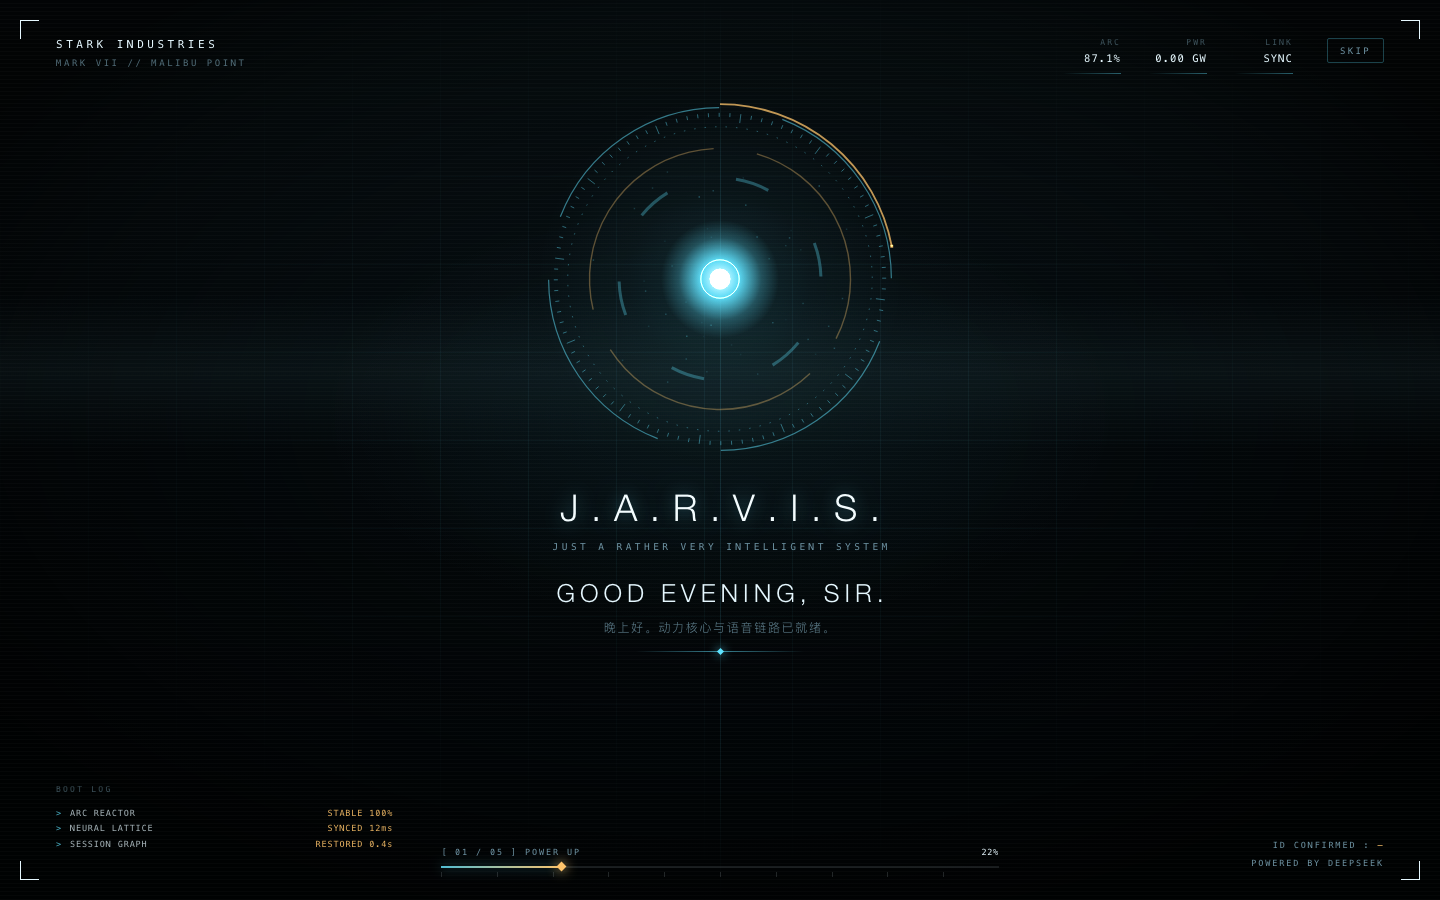
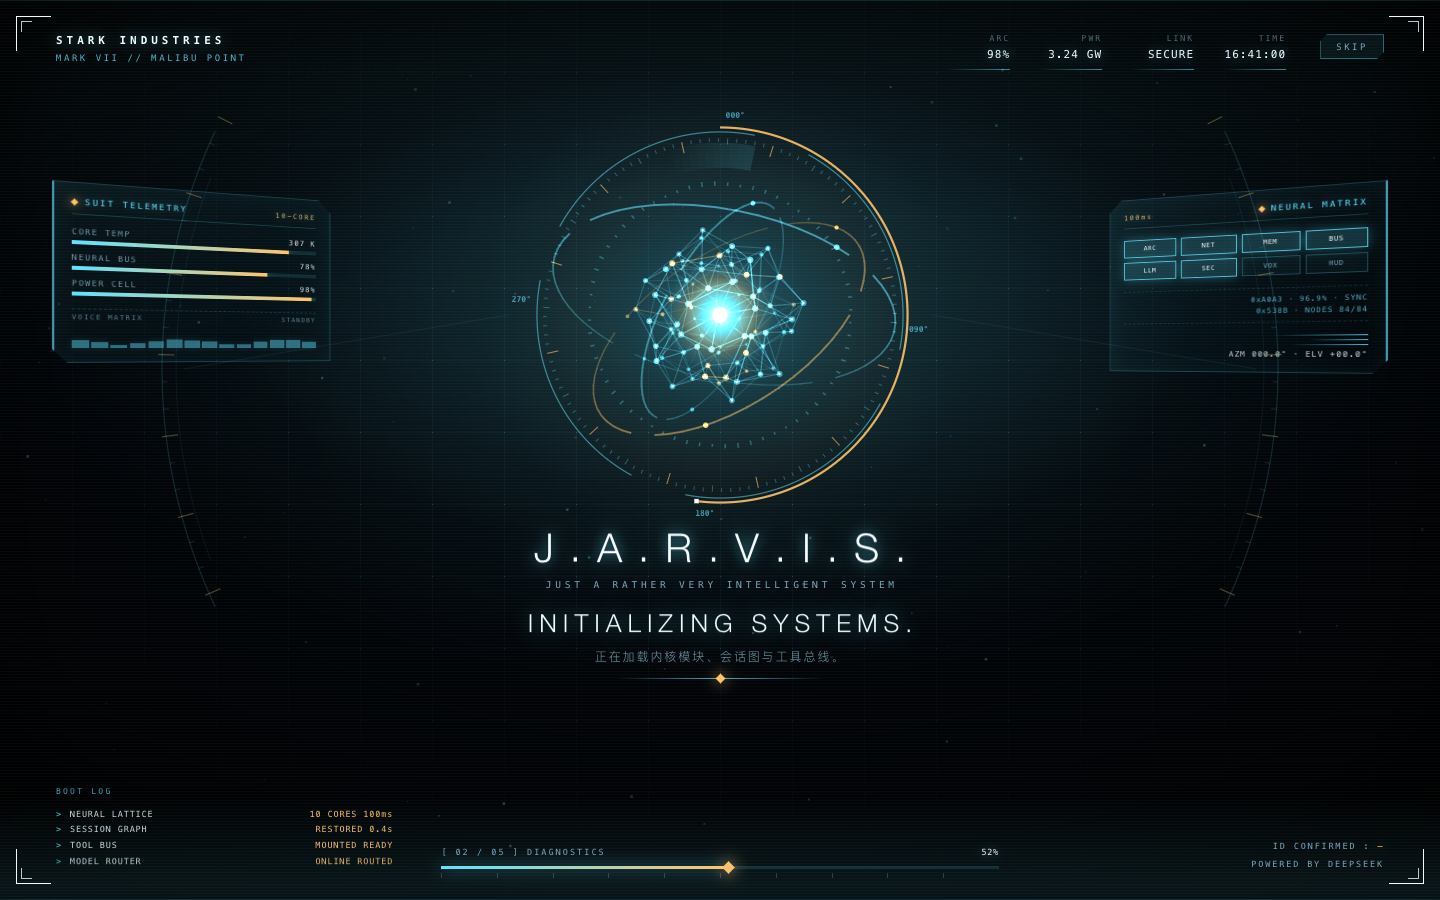
docs: 换成 3D 全息 HUD 实机截图并补充三套主题说明
- 截图全部重拍：面甲展开、3D 神经球自检、生物扫描核验、欢迎终幕，另加复联2纯金主题
- README 首屏改为 2×2 实拍图集，并注明来自 preview 页而非效果图
- 新增「三套主题」小节与各自主副色

diff --git a/README.md b/README.md
@@ -6,9 +6,15 @@ DeepSeek Harness 的 JARVIS 式电影级 3D 全息开机序列插件：冷启动
 > 视觉参考《钢铁侠》与《复仇者联盟2》中的装甲面甲 HUD、3D 意识神经网络与 JARVIS 的管家语气。**不含任何影视音视频素材**：
 > 全屏 3D 投影与 HUD 图形由原生 Canvas 2D 现场绘制，音效与低频反应炉底噪由 WebAudio 合成，台词由浏览器语音合成念出。
 
-| 自检 | 身份核验 | 欢迎 |
-|---|---|---|
-| ![启动自检](docs/screenshots/boot.png) | ![身份核验](docs/screenshots/identity.png) | ![欢迎回来](docs/screenshots/welcome.png) |
+| 面甲展开 · 光学对焦 | 身份核验 · 生物扫描 |
+|---|---|
+| ![上下钛金面甲展开与镜头对焦](docs/screenshots/visor.png) | ![双扫描弧与 AUTHENTICATE 按钮](docs/screenshots/identity.png) |
+
+| 系统自检 · 3D 神经网络核心 | 终幕 · 欢迎回来 |
+|---|---|
+| ![3D 神经球、曲面侧翼与启动日志](docs/screenshots/boot.png) | ![WELCOME BACK 与身份名称](docs/screenshots/welcome.png) |
+
+> 截图取自本仓库的 `preview/index.html`（冰蓝反应炉主题，1440×900），不是效果图。
 
 ## 播放序列
 
@@ -34,6 +40,17 @@ DeepSeek Harness 的 JARVIS 式电影级 3D 全息开机序列插件：冷启动
 - **液态玻璃**：底衬可切换为半透明磨砂层，玻璃不透明度、磨砂模糊、饱和度与背景模糊各自独立可调。
 - **三十余项设置**：身份、称呼、权限等级、面甲开场、3D 视差强度、神经网络密度、环境底噪、语音参数、配色与显示模式均可在设置页调整，即改即存。
 - **尊重系统偏好与防黑屏兜底**：`prefers-reduced-motion` 下跳过动态直接展示终幕；若运行时加载失败，首屏注入的兜底脚本 10 秒后无条件放行页面。
+
+## 三套主题
+
+| 冰蓝反应炉（默认） | 金色马克 III | 复联2 · 纯金意识球 |
+|---|---|---|
+| `#5fe3ff` + `#ffc46b` | `#ffc46b` + `#8fe9ff` | `#ffb830` + `#fff0a8` |
+
+选主题会把主副色一起换掉；之后仍可在设置页的「视觉与 3D 全息」里单独改任意颜色。
+下面这张是 `ultron` 主题：
+
+![复联2 · 纯金意识球主题的自检画面](docs/screenshots/gold.png)
 
 ## 安装
 
